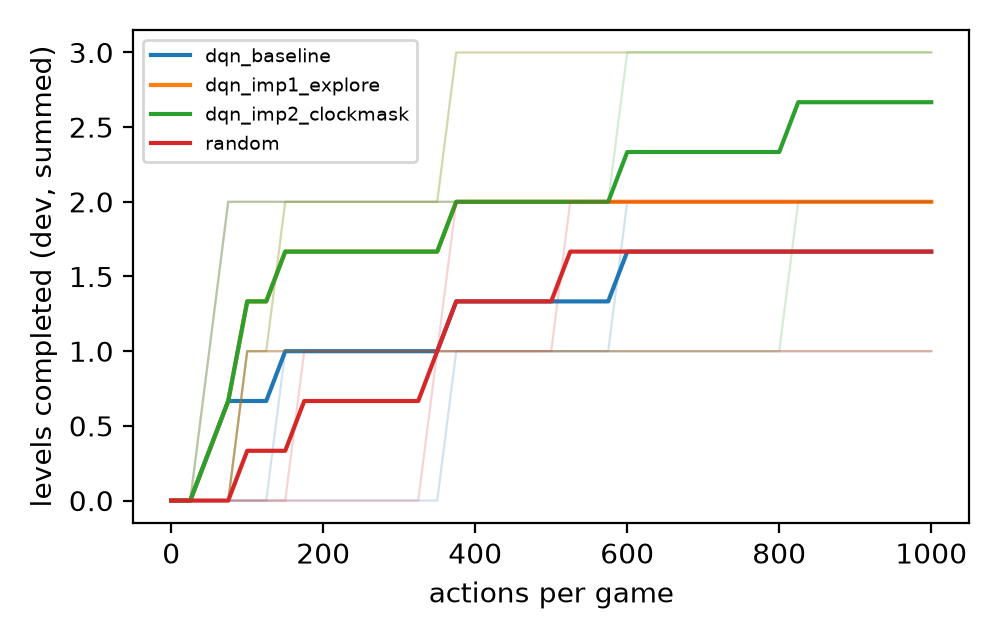
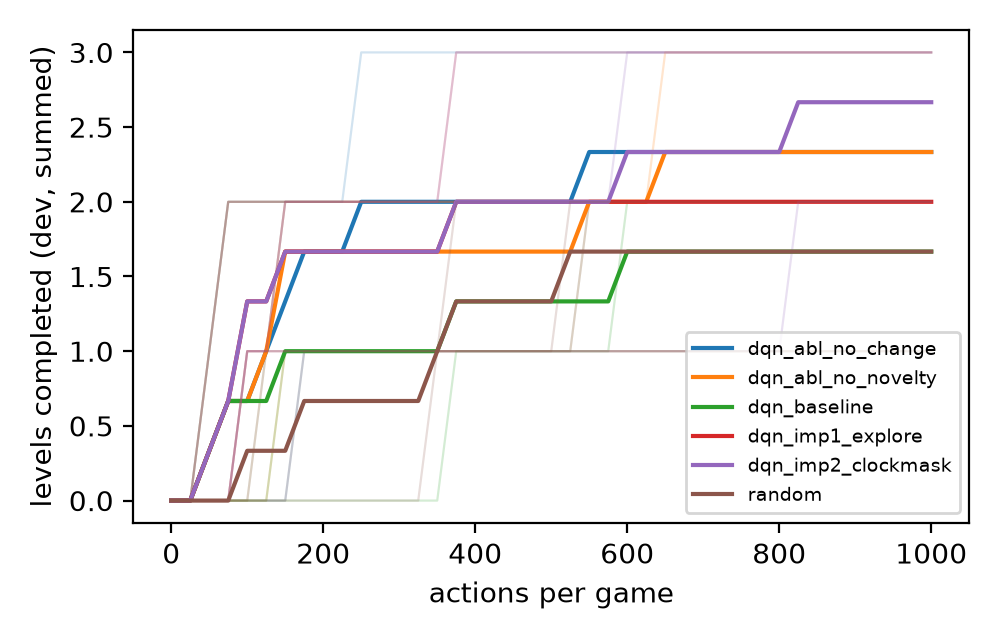
worked on improvement 3

diff --git a/outputs/figures/summary.tex b/outputs/figures/summary.tex
@@ -2,12 +2,19 @@
 \toprule
 run_name & split & seeds & score_mean & score_std & score_ci95 & levels_mean & levels_std & wins_mean & actions_mean & wall_time_s_mean & change_rate_mean & unique_states_mean \\
 \midrule
+dqn_abl_no_change & dev & 3 & 0.11 & 0.18 & 0.20 & 2.33 & 0.58 & 0.00 & 15000.00 & 1014.00 & 0.72 & 6802.67 \\
+dqn_abl_no_novelty & dev & 3 & 0.11 & 0.18 & 0.20 & 2.33 & 0.58 & 0.00 & 15000.00 & 982.60 & 0.75 & 6611.67 \\
+dqn_abl_scratch_loweps & dev_b & 3 & 0.01 & 0.02 & 0.02 & 0.33 & 0.58 & 0.00 & 5000.00 & 330.48 & 0.56 & 763.33 \\
 dqn_baseline & dev & 3 & 0.11 & 0.18 & 0.20 & 1.67 & 0.58 & 0.00 & 15000.00 & 1423.64 & 0.67 & 5738.00 \\
 dqn_imp1_explore & dev & 3 & 0.11 & 0.18 & 0.20 & 2.00 & 1.00 & 0.00 & 15000.00 & 1410.52 & 0.74 & 6577.00 \\
 dqn_imp2_clockmask & dev & 3 & 0.11 & 0.18 & 0.20 & 2.67 & 0.58 & 0.00 & 15000.00 & 1548.01 & 0.74 & 6981.67 \\
+dqn_imp3_pretrain & dev_b & 3 & 0.01 & 0.01 & 0.01 & 1.33 & 0.58 & 0.00 & 5000.00 & 328.92 & 0.53 & 1145.67 \\
+ppo_abl_no_change & dev & 3 & 0.00 & 0.00 & 0.00 & 2.00 & 1.00 & 0.00 & 15000.00 & 422.14 & 0.70 & 6426.67 \\
+ppo_abl_no_novelty & dev & 3 & 0.00 & 0.00 & 0.00 & 2.00 & 1.00 & 0.00 & 15000.00 & 428.29 & 0.72 & 6793.33 \\
 ppo_baseline & dev & 3 & 0.00 & 0.00 & 0.00 & 1.33 & 0.58 & 0.00 & 15000.00 & 494.39 & 0.68 & 5911.33 \\
 ppo_imp1_explore & dev & 3 & 0.00 & 0.00 & 0.00 & 1.33 & 0.58 & 0.00 & 15000.00 & 1031.96 & 0.71 & 6356.00 \\
 ppo_imp2_clockmask & dev & 3 & 0.00 & 0.00 & 0.00 & 1.67 & 0.58 & 0.00 & 15000.00 & 546.76 & 0.71 & 6677.67 \\
+ppo_imp3_pretrain & dev_b & 3 & 0.00 & 0.00 & 0.00 & 0.33 & 0.58 & 0.00 & 5000.00 & 130.16 & 0.61 & 1747.67 \\
 random & dev & 3 & 0.01 & 0.01 & 0.01 & 1.67 & 0.58 & 0.00 & 15000.00 & 55.45 & 0.68 & 5922.33 \\
 \bottomrule
 \end{tabular}

diff --git a/outputs/figures/summary.md b/outputs/figures/summary.md
@@ -1,9 +1,16 @@
-| run_name           | split   |   seeds |   score_mean |   score_std |   score_ci95 |   levels_mean |   levels_std |   wins_mean |   actions_mean |   wall_time_s_mean |   change_rate_mean |   unique_states_mean |
-|:-------------------|:--------|--------:|-------------:|------------:|-------------:|--------------:|-------------:|------------:|---------------:|-------------------:|-------------------:|---------------------:|
-| dqn_baseline       | dev     |       3 |        0.108 |       0.18  |        0.204 |         1.667 |        0.577 |           0 |          15000 |           1423.64  |              0.671 |              5738    |
-| dqn_imp1_explore   | dev     |       3 |        0.112 |       0.177 |        0.2   |         2     |        1     |           0 |          15000 |           1410.52  |              0.742 |              6577    |
-| dqn_imp2_clockmask | dev     |       3 |        0.113 |       0.176 |        0.199 |         2.667 |        0.577 |           0 |          15000 |           1548.01  |              0.741 |              6981.67 |
-| ppo_baseline       | dev     |       3 |        0.003 |       0.002 |        0.002 |         1.333 |        0.577 |           0 |          15000 |            494.387 |              0.675 |              5911.33 |
-| ppo_imp1_explore   | dev     |       3 |        0.003 |       0.002 |        0.002 |         1.333 |        0.577 |           0 |          15000 |           1031.96  |              0.712 |              6356    |
-| ppo_imp2_clockmask | dev     |       3 |        0.003 |       0.003 |        0.003 |         1.667 |        0.577 |           0 |          15000 |            546.757 |              0.711 |              6677.67 |
-| random             | dev     |       3 |        0.01  |       0.011 |        0.012 |         1.667 |        0.577 |           0 |          15000 |             55.447 |              0.676 |              5922.33 |
+| run_name               | split   |   seeds |   score_mean |   score_std |   score_ci95 |   levels_mean |   levels_std |   wins_mean |   actions_mean |   wall_time_s_mean |   change_rate_mean |   unique_states_mean |
+|:-----------------------|:--------|--------:|-------------:|------------:|-------------:|--------------:|-------------:|------------:|---------------:|-------------------:|-------------------:|---------------------:|
+| dqn_abl_no_change      | dev     |       3 |        0.11  |       0.179 |        0.203 |         2.333 |        0.577 |           0 |          15000 |           1014     |              0.716 |             6802.67  |
+| dqn_abl_no_novelty     | dev     |       3 |        0.11  |       0.178 |        0.202 |         2.333 |        0.577 |           0 |          15000 |            982.6   |              0.746 |             6611.67  |
+| dqn_abl_scratch_loweps | dev_b   |       3 |        0.009 |       0.016 |        0.018 |         0.333 |        0.577 |           0 |           5000 |            330.483 |              0.561 |              763.333 |
+| dqn_baseline           | dev     |       3 |        0.108 |       0.18  |        0.204 |         1.667 |        0.577 |           0 |          15000 |           1423.64  |              0.671 |             5738     |
+| dqn_imp1_explore       | dev     |       3 |        0.112 |       0.177 |        0.2   |         2     |        1     |           0 |          15000 |           1410.52  |              0.742 |             6577     |
+| dqn_imp2_clockmask     | dev     |       3 |        0.113 |       0.176 |        0.199 |         2.667 |        0.577 |           0 |          15000 |           1548.01  |              0.741 |             6981.67  |
+| dqn_imp3_pretrain      | dev_b   |       3 |        0.005 |       0.006 |        0.007 |         1.333 |        0.577 |           0 |           5000 |            328.917 |              0.533 |             1145.67  |
+| ppo_abl_no_change      | dev     |       3 |        0.003 |       0.002 |        0.002 |         2     |        1     |           0 |          15000 |            422.137 |              0.697 |             6426.67  |
+| ppo_abl_no_novelty     | dev     |       3 |        0.003 |       0.002 |        0.002 |         2     |        1     |           0 |          15000 |            428.287 |              0.716 |             6793.33  |
+| ppo_baseline           | dev     |       3 |        0.003 |       0.002 |        0.002 |         1.333 |        0.577 |           0 |          15000 |            494.387 |              0.675 |             5911.33  |
+| ppo_imp1_explore       | dev     |       3 |        0.003 |       0.002 |        0.002 |         1.333 |        0.577 |           0 |          15000 |           1031.96  |              0.712 |             6356     |
+| ppo_imp2_clockmask     | dev     |       3 |        0.003 |       0.003 |        0.003 |         1.667 |        0.577 |           0 |          15000 |            546.757 |              0.711 |             6677.67  |
+| ppo_imp3_pretrain      | dev_b   |       3 |        0     |       0     |        0     |         0.333 |        0.577 |           0 |           5000 |            130.16  |              0.613 |             1747.67  |
+| random                 | dev     |       3 |        0.01  |       0.011 |        0.012 |         1.667 |        0.577 |           0 |          15000 |             55.447 |              0.676 |             5922.33  |

diff --git a/docs/EXPERIMENT_LOG.md b/docs/EXPERIMENT_LOG.md
@@ -16,6 +16,17 @@ Hardware for all rows so far: MacBook Pro, Intel x86_64 CPU, no GPU, torch 2.2.2
 | 24 Sept | dqn_imp2_clockmask | dqn_imp2_clockmask.yaml | dev | 0,1,2 | 0.113 ± 0.176 | 2.67 ± 0.58 | 26 min | change 0.741, unique 6982; new: r11l s1@811, sp80 s2@587 |
 | 24 Sept | ppo_imp2_clockmask | ppo_imp2_clockmask.yaml | dev | 0,1,2 | 0.003 ± 0.003 | 1.67 ± 0.58 | 9 min | change 0.711, unique 6678; new: sp80 s0@616 |
 
+Improvement 3 runs (dev_b = cn04, lp85, sk48, su15, tu93; levels out of 5 games' worth; imp1/imp2/baselines pooled from dev runs):
+
+| Date | Run | Split | Seeds | Score | Levels on dev_b | Distinct frames | Eval time / seed | Pretrain time / seed |
+|---|---|---|---|---|---|---|---|---|
+| 25 Sept | random | dev_b | 0,1,2 | 0.001 | 0.67 ± 0.58 | 1116 | | |
+| 25 Sept | dqn_imp2_clockmask | dev_b | 0,1,2 | 0.014 | 1.00 ± 0.00 | 1406 | | |
+| 25 Sept | dqn_imp3_pretrain | dev_b | 0,1,2 | 0.005 | 1.33 ± 0.58 | 1146 | 5.6 min | 23 min (2 passes × 10 games) |
+| 25 Sept | dqn_abl_scratch_loweps | dev_b | 0,1,2 | 0.009 | 0.33 ± 0.58 | 763 | 5.8 min | |
+| 25 Sept | ppo_imp2_clockmask | dev_b | 0,1,2 | 0.001 | 0.33 ± 0.58 | 1312 | | |
+| 25 Sept | ppo_imp3_pretrain | dev_b | 0,1,2 | 0.000 | 0.33 ± 0.58 | 1748 | 2.3 min | 9.6 min |
+
 Budget: 1000 actions per game, 15 dev games, 15 000 actions per seed. No wins in any run.
 `change` = share of non-reset actions that changed the frame (mean over games); `unique` = distinct frames per seed
 (summed over games). Reruns reproduced every level, score and game-over count exactly: CPU runs are deterministic
@@ -164,7 +175,33 @@ under fixed seeds. Wall time varies ±40% between runs on the same laptop, so co
   reported separately from evaluation cost (checkpoint `run_meta.json`, `pretrain_wall_time_s`).
 - **Caveat known in advance:** dev_b has 5 games, 3 of which (sk48, su15, tu93) have never been completed by any agent.
   A null result on dev_b is therefore weak evidence either way; the held-out run is the real test.
-- **Result:**
+- **Result, DQN (25 Sept): pretrained weights transfer an exploration prior; no clear gain in levels or efficiency.**
+  - Levels on dev_b 1.00 → 1.33 ± 0.58. The extra level is **su15 seed 0 at action 841, the first su15 completion by
+    any agent in any run**. One event, so suggestive only.
+  - Actions to first completion did not improve: lp85 at 117/289/361 against 375/94/86 for imp2 (mean 256 vs 185).
+  - Attribution: the ε-ablation (same ε = 0.3 schedule, no pretraining) collapses to 0.33 levels and 763 distinct frames.
+    Pretrained weights under that schedule restore 1146 frames and 1.33 levels. The pretrained network therefore carries
+    useful exploratory behaviour into unseen games; without it, low ε alone is harmful.
+  - Against imp2 at ε = 1.0, exploration is lower (1146 vs 1406 frames), so pretraining plus low ε roughly substitutes for
+    random exploration rather than improving on it.
+- **Result, PPO (25 Sept): much broader exploration on unseen games, no gain in levels.**
+  - Distinct frames 1312 → 1748 (+33%), the highest of any run on dev_b. Levels unchanged (0.33; lp85 seed 1 at 706, a
+    new completion; the imp2 completion lp85 seed 2 at 246 disappeared).
+  - The pretrained policy transfers an exploration behaviour, but not a level-completing one.
+- **Pretraining itself did not improve across passes.** Per seed, level completions in pass 1 vs pass 2 were DQN 0/0, 1/1,
+  1/1 and PPO 1/1, 3/1, 1/2, almost all r11l. The network sees a level reward about once per 10 000 actions, so what it
+  learns across games is an exploration prior, not knowledge of goals.
+- **Cost:** DQN pretraining ≈ 23 min per seed and PPO ≈ 9.6 min per seed on the Mac CPU, reported separately from
+  evaluation (DQN 5.6 min, PPO 2.3 min per seed on dev_b).
+- **Conclusion for the report:** improvement 3 answers the generalisation question with a clear, partly negative finding.
+  Game-independent exploration behaviour transfers across ARC-AGI-3 games (strong for PPO, and it rescues low-ε DQN);
+  level-completing behaviour does not, because level rewards are too rare during pretraining to learn from.
+
+### Decision on improvement 4 (25 Sept): stop here
+The criterion set before running improvement 3 was: pursue efficiency if pretraining gives faster first completions.
+It did not (lp85 mean 256 vs 185 actions). The remaining limitation, level rewards almost never observed, is the same one
+improvements 1–3 already target. No new, specific limitation motivates a fourth method, so the investigation moves to
+ablations, held-out evaluation, the Kaggle submission and the report.
 
 ### Optional, not in the main chain
 Frame-stack memory (`*_opt_memory.yaml`) and object-aware clicks (`*_opt_objclick.yaml`) remain available as extra

diff --git a/outputs/figures/compare_dev_b.md b/outputs/figures/compare_dev_b.md
@@ -1,0 +1,34 @@
+# Runs on dev_b: cn04, lp85, sk48, su15, tu93
+
+| run_name               |   seeds |   score_mean |   score_ci95 |   levels_mean |   levels_std |   unique_states_mean |   game_overs_mean |
+|:-----------------------|--------:|-------------:|-------------:|--------------:|-------------:|---------------------:|------------------:|
+| dqn_abl_scratch_loweps |       3 |        0.009 |        0.018 |         0.333 |        0.577 |              763.333 |            64.333 |
+| dqn_baseline           |       3 |        0     |        0.001 |         0.333 |        0.577 |             1083     |            51.667 |
+| dqn_imp1_explore       |       3 |        0.014 |        0.012 |         1     |        0     |             1234.33  |            62.333 |
+| dqn_imp2_clockmask     |       3 |        0.014 |        0.012 |         1     |        0     |             1405.67  |            61     |
+| dqn_imp3_pretrain      |       3 |        0.005 |        0.007 |         1.333 |        0.577 |             1145.67  |            58.667 |
+| ppo_baseline           |       3 |        0.001 |        0.002 |         0.333 |        0.577 |             1083.33  |            58.667 |
+| ppo_imp1_explore       |       3 |        0.001 |        0.002 |         0.333 |        0.577 |             1181.33  |            61.333 |
+| ppo_imp2_clockmask     |       3 |        0.001 |        0.002 |         0.333 |        0.577 |             1312     |            60     |
+| ppo_imp3_pretrain      |       3 |        0     |        0     |         0.333 |        0.577 |             1747.67  |            60.667 |
+| random                 |       3 |        0.001 |        0.001 |         0.667 |        0.577 |             1116     |            59     |
+
+## Level completions
+- lp85 dqn_abl_scratch_loweps seed 0: levels at actions [76]
+- lp85 dqn_baseline seed 1: levels at actions [375]
+- lp85 dqn_imp1_explore seed 0: levels at actions [359]
+- lp85 dqn_imp1_explore seed 1: levels at actions [94]
+- lp85 dqn_imp1_explore seed 2: levels at actions [86]
+- lp85 dqn_imp2_clockmask seed 0: levels at actions [375]
+- lp85 dqn_imp2_clockmask seed 1: levels at actions [94]
+- lp85 dqn_imp2_clockmask seed 2: levels at actions [86]
+- lp85 dqn_imp3_pretrain seed 0: levels at actions [117]
+- lp85 dqn_imp3_pretrain seed 1: levels at actions [289]
+- lp85 dqn_imp3_pretrain seed 2: levels at actions [361]
+- lp85 ppo_baseline seed 2: levels at actions [246]
+- lp85 ppo_imp1_explore seed 2: levels at actions [246]
+- lp85 ppo_imp2_clockmask seed 2: levels at actions [246]
+- lp85 ppo_imp3_pretrain seed 1: levels at actions [706]
+- lp85 random seed 0: levels at actions [504]
+- lp85 random seed 1: levels at actions [352]
+- su15 dqn_imp3_pretrain seed 0: levels at actions [841]

diff --git a/docs/PROTOCOL.md b/docs/PROTOCOL.md
@@ -44,3 +44,5 @@ Any unavoidable change gets a dated entry in the change log below.
 | Date | Change | Reason |
 |---|---|---|
 | 23 Sept 2026 | Protocol frozen; splits generated | Phase 1 |
+| 24 Sept 2026 | Added `configs/pretrain_splits.yaml`: dev split into dev_a (10, pretraining) and dev_b (5, check), seed 2026 | Improvement 3 must be checked on games not used for pretraining without touching held-out games |
+| 24 Sept 2026 | Improvement 3 DQN uses ε 0.3 → 0.05 over 500 actions (others 1.0 → 0.05 over 1000); `ablations/dqn_scratch_loweps.yaml` controls for it | Starting from pretrained weights |
